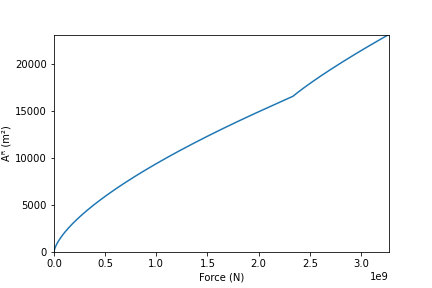
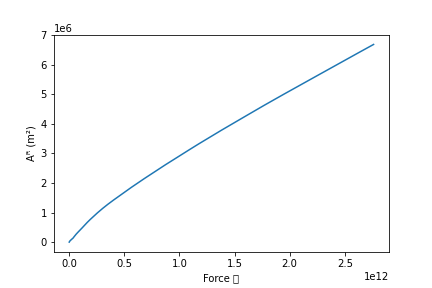
tets

diff --git a/affichage.py b/affichage.py
@@ -79,14 +79,11 @@ def loi(aires, forces):
     plt.xlabel('Force (N)')
     plt.ylabel('A\u1D3F (m²)')
     # Définir la plage des valeurs sur l'axe des x (forces) et y (aires) pour le zoom
-    plt.xlim(forces[0], forces[7500])  # Vous pouvez ajuster les indices selon vos besoins
-    plt.ylim(aires[0], aires[7500])    # Vous pouvez ajuster les indices
+    #plt.xlim(forces[0], forces[7500])  # Vous pouvez ajuster les indices selon vos besoins
+    #plt.ylim(aires[0], aires[7500])    # Vous pouvez ajuster les indices
     plt.savefig("loi.png")  # Permet de sauvegarder le fichier
     plt.show()
-    
-    
-    
-    
+
 
 def superposer_lois(*listes, points=None):
     """
@@ -99,7 +96,7 @@ def superposer_lois(*listes, points=None):
         Chaque tuple contient deux listes : la première avec les valeurs des
         aires, et la deuxième avec les valeurs des forces.
     points : list of tuples, optional
-        Liste de tuples contenant les coordonnées des points particuliers à 
+        Liste de tuples contenant les coordonnées des points particuliers à
         afficher. Chaque tuple doit avoir deux valeurs : (force, aire).
 
     Returns
@@ -108,8 +105,13 @@ def superposer_lois(*listes, points=None):
 
     """
     couleurs = ['b', 'g', 'r', 'c', 'm', 'y', 'k']  # Liste de couleurs distinctives
-    for i, (aires, forces) in enumerate(listes):
-        plt.plot(forces, aires, label=f'Loi {i + 1}', color=couleurs[i % len(couleurs)])
+    if len(listes) == 1:  # Vérification pour un seul tuple dans listes
+        aires, forces = listes[0][0]  # Déballage du seul tuple
+        plt.plot(forces, aires, label='Loi 1', color='b')  # Par exemple, utilisez une couleur spécifique
+
+    else:
+        for i, (aires, forces) in enumerate(listes):
+            plt.plot(forces, aires, label=f'Loi {i + 1}', color=couleurs[i % len(couleurs)])
 
     if points:
         points_forces, points_aires = zip(*points)
@@ -144,6 +146,7 @@ def hauteur(hauteurs):
     plt.hist(liste_hauteurs, bins)
     plt.savefig("hauteurs.png")  # Permet de sauvegarder le fichier
     plt.show()
+
 
 
 if __name__ == "__main__":

diff --git a/Algo_direct_v2.py b/Algo_direct_v2.py
@@ -76,8 +76,8 @@ def loi_totale(rayons_courbure, hauteurs):
         aires_totales[i] = aire_totale
         forces_totales[i] = force
 
-        if delta == hauteur_moitie:
-            affichage.spheres(aires_contact)
+        #if delta == hauteur_moitie:
+            #affichage.spheres(aires_contact)
     return aires_totales, forces_totales
 
 
@@ -113,12 +113,11 @@ if __name__ == "__main__":
     # valeurs en um
     rayons_courbure = np.array([[526 for i in range(8)]
                                 for j in range(8)])
-    
     hauteurs = np.array([[random.randint(0, 120) for i in range(8)]
                         for j in range(8)])
     hauteurs[1][1] = 150
     hauteurs[2][2] = 160
     aires_totales, forces_totales = loi_totale(rayons_courbure, hauteurs)
-    
+
     affichage.loi(aires_totales, forces_totales)
     affichage.hauteur(hauteurs)
